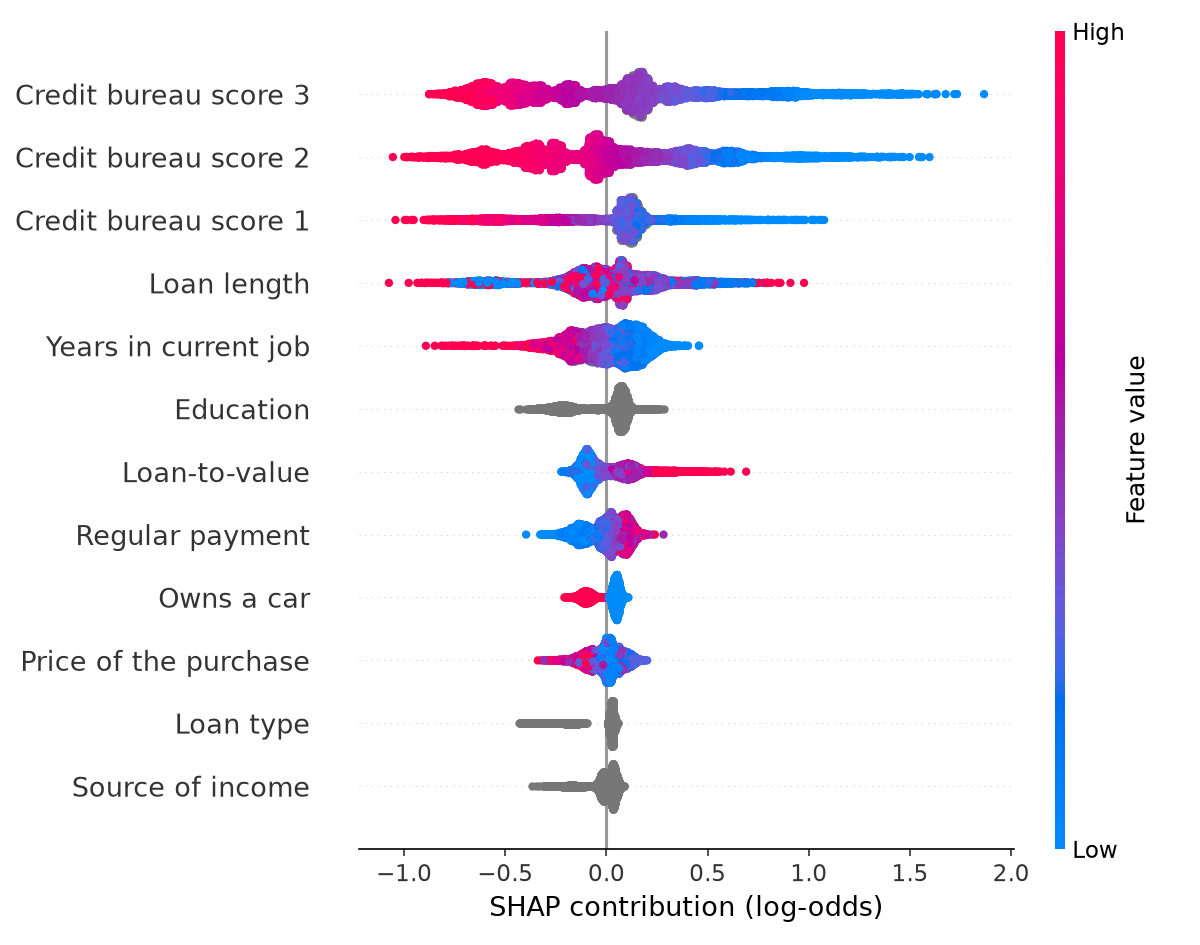
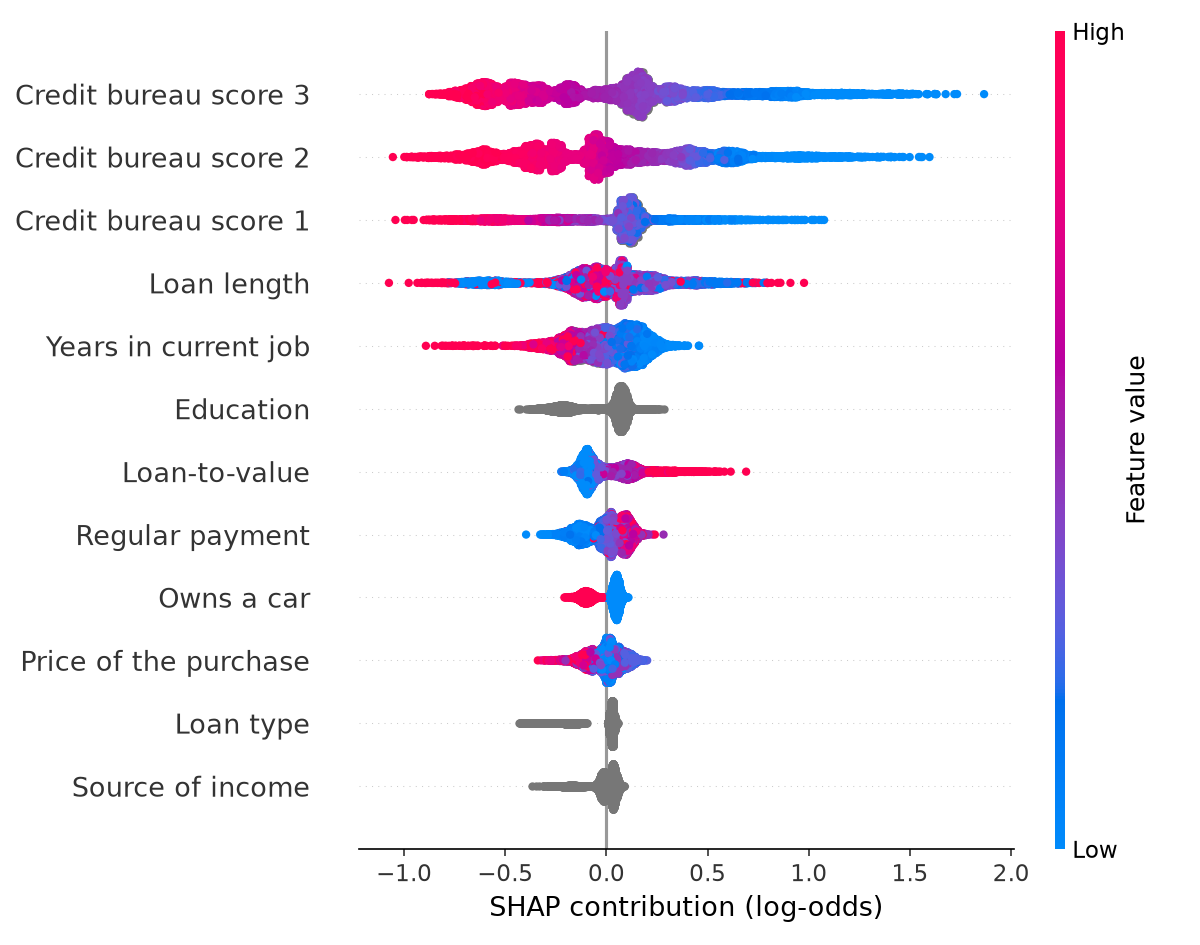
Save test-set predictions for the simulator; make SHAP figures reproducible
Predictions, outcomes, loan amounts, and gender and age for the coming
fairness audit go to artifacts/ (gitignored: derived from Kaggle data).

diff --git a/src/credit_risk/train.py b/src/credit_risk/train.py
@@ -18,7 +18,7 @@ import numpy as np
 import pandas as pd
 from sklearn.pipeline import Pipeline
 
-from credit_risk.artifacts import artifacts_dir, save_artifacts
+from credit_risk.artifacts import artifacts_dir, save_artifacts, save_portfolio
 from credit_risk.config import DEFAULT_LGD, DEFAULT_MARGIN, MODEL_INPUTS, PROJECT_ROOT, REPORTS_DIR, TARGET
 from credit_risk.data import load_splits
 from credit_risk.evaluate import basic_metrics, plot_evaluation
@@ -128,6 +128,18 @@ def main() -> None:
         ]
         figures += plot_importance(explainer, sample, REPORTS_DIR / "figures")
     save_artifacts(models[best], metadata, artifacts_dir())
+    # What the chosen model predicted for each test applicant, with the real outcome.
+    # Feeds the portfolio simulator; gender and age are only for the fairness audit.
+    save_portfolio(
+        pd.DataFrame({
+            "p_default": test_predictions[best],
+            "defaulted": y_test,
+            "amt_credit": splits.test["amt_credit"].to_numpy(),
+            "gender": splits.test["gender"].to_numpy(),
+            "age_years": splits.test["age_years"].to_numpy(),
+        }),
+        artifacts_dir(),
+    )
     figures.append(plot_risk_map(
         models[best], metadata["reference_applicant"], cost_based_threshold(DEFAULT_LGD, DEFAULT_MARGIN),
         REPORTS_DIR / "figures" / "risk_map.png",

diff --git a/tests/conftest.py b/tests/conftest.py
@@ -10,8 +10,8 @@ import numpy as np
 import pandas as pd
 import pytest
 
-from credit_risk.artifacts import save_artifacts
-from credit_risk.config import DAYS_EMPLOYED_SENTINEL
+from credit_risk.artifacts import save_artifacts, save_portfolio
+from credit_risk.config import DAYS_EMPLOYED_SENTINEL, MODEL_INPUTS
 from credit_risk.data import clean, split
 from credit_risk.models import fit_lgbm
 from credit_risk.train import build_metadata
@@ -86,6 +86,14 @@ def trained_artifacts_dir(tmp_path_factory: pytest.TempPathFactory) -> Path:
     pipeline = fit_lgbm(splits.train, splits.val)
     metrics = {"roc_auc": 0.5, "pr_auc": 0.08, "actual_default_rate": 0.08}
     save_artifacts(pipeline, build_metadata("lgbm", splits.train, metrics), out_dir)
+    test = splits.test
+    save_portfolio(pd.DataFrame({
+        "p_default": pipeline.predict_proba(test[MODEL_INPUTS])[:, 1],
+        "defaulted": test["defaulted"].to_numpy(),
+        "amt_credit": test["amt_credit"].to_numpy(),
+        "gender": test["gender"].to_numpy(),
+        "age_years": test["age_years"].to_numpy(),
+    }), out_dir)
     return out_dir
 
 

diff --git a/src/credit_risk/artifacts.py b/src/credit_risk/artifacts.py
@@ -10,9 +10,10 @@ from pathlib import Path
 from typing import Any
 
 import joblib
+import pandas as pd
 from sklearn.pipeline import Pipeline
 
-from credit_risk.config import ARTIFACTS_DIR, METADATA_FILE, MODEL_FILE
+from credit_risk.config import ARTIFACTS_DIR, METADATA_FILE, MODEL_FILE, PORTFOLIO_FILE
 
 
 def artifacts_dir() -> Path:
@@ -31,3 +32,14 @@ def load_artifacts(in_dir: Path) -> tuple[Pipeline, dict[str, Any]]:
     if not model_path.exists():
         raise FileNotFoundError(f"{model_path} not found. Train first: python -m credit_risk.train")
     return joblib.load(model_path), json.loads((in_dir / METADATA_FILE).read_text())
+
+
+def save_portfolio(predictions: pd.DataFrame, out_dir: Path) -> None:
+    out_dir.mkdir(parents=True, exist_ok=True)
+    predictions.to_parquet(out_dir / PORTFOLIO_FILE, index=False)
+
+
+def load_portfolio(in_dir: Path) -> pd.DataFrame | None:
+    """Test-set predictions, or None if training hasn't produced them yet."""
+    path = in_dir / PORTFOLIO_FILE
+    return pd.read_parquet(path) if path.exists() else None

diff --git a/src/credit_risk/explain.py b/src/credit_risk/explain.py
@@ -149,8 +149,10 @@ def plot_importance(explainer: Explainer, applicants: pd.DataFrame, out_dir: Pat
     for kind, filename in (("bar", "shap_importance.png"), ("dot", "shap_beeswarm.png")):
         with warnings.catch_warnings():
             warnings.simplefilter("ignore", RuntimeWarning)  # all-blank category columns, see above
+            # rng: SHAP jitters overlapping dots randomly; a fixed seed keeps the figure reproducible.
             shap.summary_plot(values.to_numpy(), numeric, feature_names=names, plot_type=kind,
-                              max_display=12, show=False, color="#2443d6" if kind == "bar" else None)
+                              max_display=12, show=False, color="#2443d6" if kind == "bar" else None,
+                              rng=np.random.default_rng(0))
         fig = plt.gcf()
         fig.axes[0].set_xlabel("Mean |SHAP| (log-odds)" if kind == "bar" else "SHAP contribution (log-odds)")
         fig.tight_layout()

diff --git a/src/credit_risk/config.py b/src/credit_risk/config.py
@@ -18,6 +18,9 @@ REPORTS_DIR = PROJECT_ROOT / "reports"
 
 MODEL_FILE = "model.joblib"
 METADATA_FILE = "metadata.json"
+# Row-level test-set predictions for the portfolio simulator and fairness audit.
+# Derived from Kaggle data, so it stays in artifacts/ (gitignored), never in the repo.
+PORTFOLIO_FILE = "test_predictions.parquet"
 
 # Default lending policy (placeholder assumptions, adjustable in the app from M4).
 # LGD = share of the loan lost when a borrower defaults (cost of a false approval).
